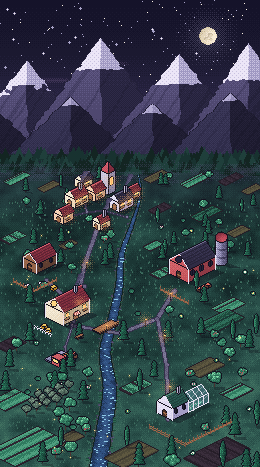
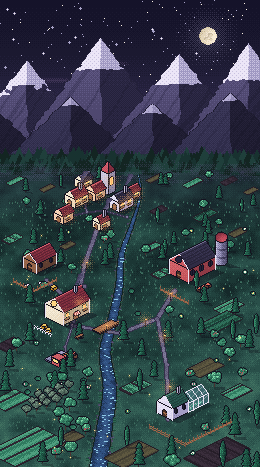
FattorIA: map fields shrink towards the horizon (stronger perspective)

diff --git a/tools/pixelart/mapgen.py b/tools/pixelart/mapgen.py
@@ -227,6 +227,11 @@ class Map:
     def river_w(s, y):
         return 3 + max(0, y - 244) * 0.056
 
+    def field_scale(s, y):
+        """fields shrink faster than trees towards the horizon (strong perspective)"""
+        f = max(0.0, min(1.0, (y - 262) / 440.0))
+        return 0.32 + 0.68 * f ** 0.85
+
     def depth(s, y):
         """perspective: 0.5 at the forest edge, 1 at the front"""
         return 0.5 + 0.5 * max(0.0, min(1.0, (y - 250) / 450.0))
@@ -296,7 +301,7 @@ class Map:
                         c.set(int(bx * s.S), int((yy - hgt) * s.S) - 1, H('#8b6849'))
 
     def iso_rows(s, x, y, w, d, colors, rowsx=True, step=3.0, scale=1.0):
-        w, d, step = w * scale, d * scale, step * scale
+        w, d, step = w * scale, d * scale, max(1.6, step * scale)
         p0 = (x, y)
         pr = (x + w * EX[0], y + w * EX[1])
         pb = (pr[0] + d * EY[0], pr[1] + d * EY[1])
@@ -811,7 +816,7 @@ class Map:
         ]
         for (x, y, w, d, k) in FIELDS:
             cols, rows, step = KINDS[k]
-            sc = s.depth(y)
+            sc = s.field_scale(y)
             s.iso_rows(x, y, w, d, cols, rows, step, sc)
             p = s.field_poly(x, y, w, d, sc)
             s.blocked.append([(px_ + (px_ - p[0][0]) * 0.05, py_) for (px_, py_) in p])
